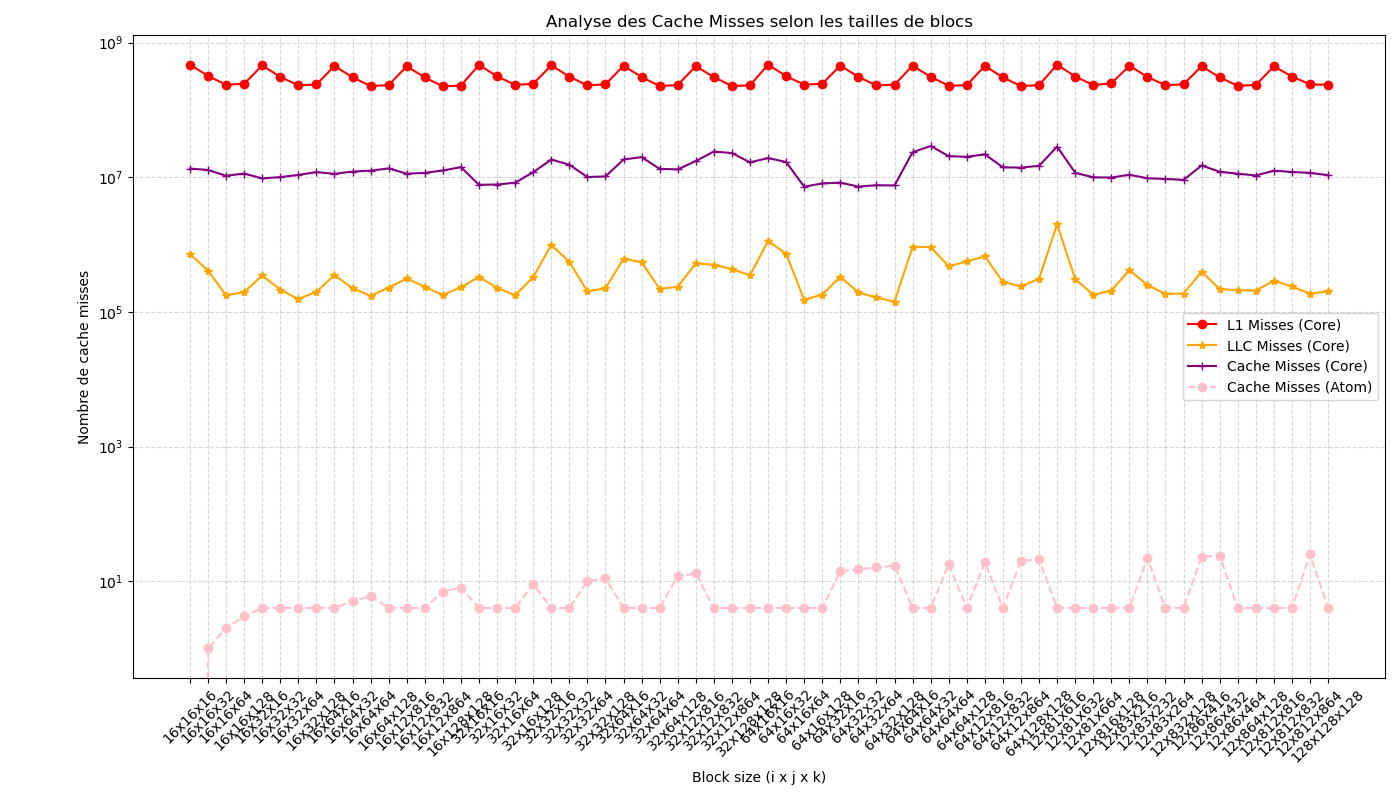
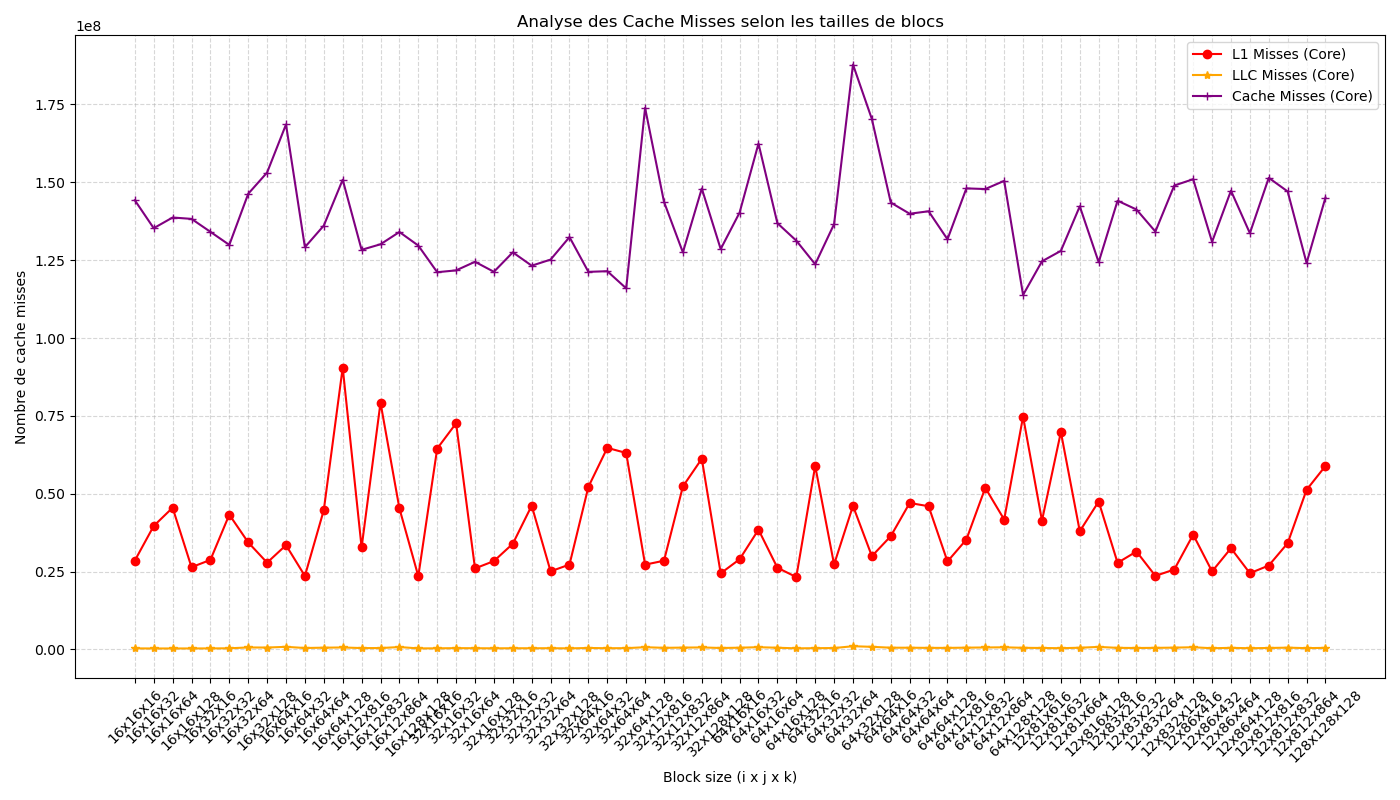
Added scripts for layouts and modified cache blocking, rerun the plot to update them and save figures

diff --git a/src/scripts/Layout.py b/src/scripts/Layout.py
@@ -1,0 +1,54 @@
+import pandas as pd
+import matplotlib.pyplot as plt
+
+#pandas va chercher les données
+df = pd.read_csv("../results/perf_layout_var.txt", sep=" ", header=None)
+df.columns = [
+    "LAYOUT_A", "LAYOUT_B", "LAYOUT_C", "TIME", "SPEEDUP",
+    "ATOM_CACHE_MISSES", "CORE_CACHE_MISSES",
+    "ATOM_CACHE_REF", "CORE_CACHE_REF",
+    "ATOM_LLC_MISSES", "CORE_LLC_MISSES",
+    "CORE_L1_MISSES"
+]
+
+#permet d'extraire les bons labels de blocs
+df["LAYOUT_LABEL"] = df.apply(lambda row: f"{row['LAYOUT_A'][-5:]}_{row['LAYOUT_B'][-5:]}_{row['LAYOUT_C'][-5:]}", axis=1)
+x = df["LAYOUT_LABEL"]
+
+#graphique
+plt.figure(figsize=(14, 8))
+
+plt.plot(x, df["CORE_L1_MISSES"], marker='o', linestyle='-', label="Core L1 Misses", color="red")
+plt.plot(x, df["CORE_LLC_MISSES"], marker='*', linestyle='-', label="Core LLC Misses", color="orange")
+plt.plot(x, df["CORE_CACHE_MISSES"], marker='+', linestyle='-', label="Core Cache Misses", color="purple")
+plt.plot(x, df["ATOM_CACHE_MISSES"], marker='o', linestyle='--', label="Atom Cache Misses", color="pink")
+
+plt.plot(x, df["ATOM_LLC_MISSES"], marker='s', linestyle='--', label="Atom LLC Misses", color="magenta")
+plt.plot(x, df["ATOM_CACHE_REF"], marker='d', linestyle=':', label="Atom Cache Refs", color="blue")
+plt.plot(x, df["CORE_CACHE_REF"], marker='x', linestyle=':', label="Core Cache Refs", color="green")
+
+plt.xticks(rotation=45)
+plt.xlabel("Layout (AxBxC)")
+plt.ylabel("Nombre de cache misses")
+plt.title("Analyse des Cache Misses selon les layouts")
+plt.legend()
+plt.grid(True, linestyle='--', alpha=0.5)
+plt.tight_layout()
+plt.yscale('log', subs=[0.1, 0.2, 0.3, 0.4, 0.5, 0.6, 0.7, 0.8, 0.9, 1.0, 1.1,1.2, 1.3])
+
+plt.savefig("../figures/cache_misses_layout.png")
+plt.show()
+
+#graphique time
+plt.figure(figsize=(14, 8))
+
+plt.plot(x, df["TIME"], marker='+', linestyle='--', label="Time", color="blue")
+plt.xticks(rotation=45)
+plt.xlabel("Layout (AxBxC)")
+plt.ylabel("Nombre de cache misses")
+plt.title("Analyse du temps selon les layouts")
+plt.legend()
+plt.grid(True, linestyle='--', alpha=0.5)
+plt.tight_layout()
+plt.savefig("../figures/time_layout.png")
+plt.show()

diff --git a/src/main_cache_blocking.cpp b/src/main_cache_blocking.cpp
@@ -24,9 +24,9 @@ auto matrix_init(MatrixType& M) -> void {
   );
 }
 
-constexpr int BLOCK_SIZE_i = 32;
-constexpr int BLOCK_SIZE_j = 32;
-constexpr int BLOCK_SIZE_k = 128;
+constexpr int BLOCK_SIZE_i = 64;
+constexpr int BLOCK_SIZE_j = 16;
+constexpr int BLOCK_SIZE_k = 32;
 template <class AMatrixType, class BMatrixType, class CMatrixType>
 auto matrix_product(double alpha, AMatrixType const& A, BMatrixType const& B, double beta, CMatrixType& C) -> void {
   static_assert(
@@ -50,7 +50,7 @@ auto matrix_product(double alpha, AMatrixType const& A, BMatrixType const& B, do
         for (int j = j_start; j < std::min(j_start + BLOCK_SIZE_j, int(B.extent(1))); ++j) {
           double acc = 0.0;
           for (int k_block = 0; k_block < int(A.extent(1)); k_block += BLOCK_SIZE_k) {
-          for (int k = 0; k < std::min(k_block + BLOCK_SIZE_k, int(A.extent(1))); ++k) {
+          for (int k = k_block; k < std::min(k_block + BLOCK_SIZE_k, int(A.extent(1))); ++k) {
             acc += alpha * A(i, k) * B(k, j);
           }
           }
@@ -88,7 +88,7 @@ auto main(int argc, char* argv[]) -> int {
   fmt::print("Nombre de threads disponibles : {}\n", nb_threads);
   auto A = MatrixR("A", m, k);
   auto B = MatrixL("B", k, n);
-  auto C = MatrixR("C", m, n);
+  auto C = MatrixL("C", m, n);
 
   double alpha = drand48();
   matrix_init(A);

diff --git a/src/scripts/bloc_var_perf.py b/src/scripts/bloc_var_perf.py
@@ -21,7 +21,7 @@ plt.figure(figsize=(14, 8))
 plt.plot(x, df["CORE_L1_MISSES"], 'o-', label="L1 Misses (Core)", color="red")
 plt.plot(x, df["CORE_LLC_MISSES"], '*-', label="LLC Misses (Core)", color="orange")
 plt.plot(x, df["CORE_CACHE_MISSES"], '+-', label="Cache Misses (Core)", color="purple")
-plt.plot(x, df["ATOM_CACHE_MISSES"], 'o--', label="Cache Misses (Atom)", color="pink")
+#plt.plot(x, df["ATOM_CACHE_MISSES"], 'o--', label="Cache Misses (Atom)", color="pink")
 
 plt.xticks(rotation=45)
 plt.xlabel("Block size (i x j x k)")
@@ -30,7 +30,7 @@ plt.title("Analyse des Cache Misses selon les tailles de blocs")
 plt.legend()
 plt.grid(True, linestyle='--', alpha=0.5)
 plt.tight_layout()
-plt.yscale("log")
+#plt.yscale("log")
 
 plt.savefig("../figures/cache_misses_by_block.png")
 plt.show()
